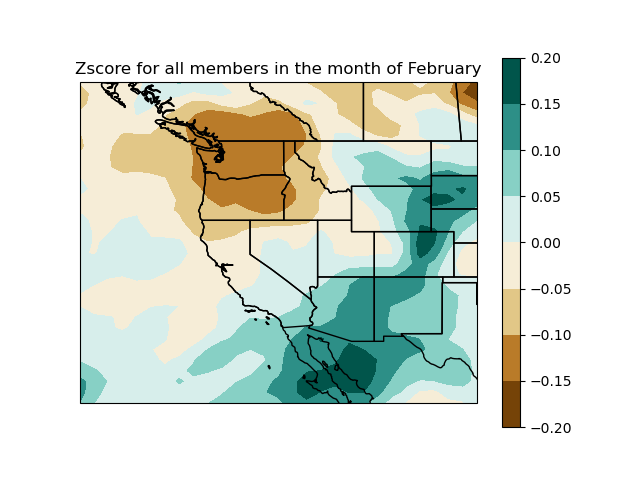
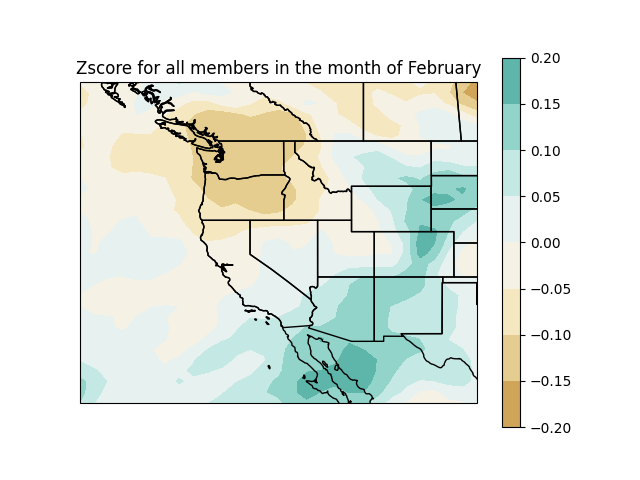
adjusted colorbar lims

diff --git a/Precipitation Scripts/monthly_zscore_plots.py b/Precipitation Scripts/monthly_zscore_plots.py
@@ -8,25 +8,22 @@ Good codes to look at:
 '''
 
 import xarray as xr
-import numpy as np
 import zscores_average
 import precip_zscores
 import glob
-import matplotlib.pyplot as plt
-import cartopy.crs as ccrs
-import cartopy.feature as cfeature
+import precipAvg_interval as pcp
 
 #Some of this code is a copy-paste from previous Python files (see above - this one is for zscores_average). Since we want all members, that part will be kept.
 
 # Retrieve the precip files, sorted so that each member is in order.
-filenames = sorted(glob.glob('Data/PRECTmem*.nc'))
+filenames = sorted(glob.glob('/Users/dfencekey/Desktop/Coding/Capstone/Capstone-PDO-Precip-Data-Analysis/Data/PRECTmem*.nc'))
 
 # Calculate the z-scores for each member, then concatenate them with a new "members" dimension.
 zscores = [precip_zscores.member_zscore(f) for f in filenames]
 zscores = xr.concat(zscores, dim = 'members')
 
 # Read in the booleans that define which months are phase changes.
-bools = xr.open_dataset('Data/phaseChanges.nc')
+bools = xr.open_dataset('/Users/dfencekey/Desktop/Coding/Capstone/Capstone-PDO-Precip-Data-Analysis/Data/phaseChanges.nc')
 # Rename the month_bool dimension to "time" so that it can be multiplied directly into zscores inside the function.
 bools = bools.rename({"month_bool": "time"})
 
@@ -63,12 +60,7 @@ for month in grouped['month']:
     month_name = months.get(month_dict_value)
     
     #Plot the selected month
-    X, Y = np.meshgrid(selected_by_month.lon, selected_by_month.lat)
-    fig, ax = plt.subplots(nrows = 1, ncols = 1, subplot_kw = {'projection': ccrs.PlateCarree()})
-    ax.coastlines()
-    my_ax = ax.contourf(X, Y, selected_by_month, transform = ccrs.PlateCarree(), cmap = "BrBG")
-    ax.add_feature(cfeature.STATES, zorder=1, linewidth=1, edgecolor='k')
-    fig.colorbar(my_ax, ax = ax)
-    ax.set_title("Zscore for all members in the month of " + str(month_name))
-    plt.savefig("Plots/"+month_name+'_zscore.png')
+    title = "Zscore for all members in the month of " + str(month_name)
+    pcp.prettyColors(selected_by_month, title, cmap = 'BrBG', save = "/Users/dfencekey/Desktop/Coding/Capstone/Capstone-PDO-Precip-Data-Analysis/Plots/"+month_name+'_zscore.png', vmin = -0.36, vmax = 0.36)
+
     

diff --git a/Precipitation Scripts/difference_plots.py b/Precipitation Scripts/difference_plots.py
@@ -36,14 +36,17 @@ print(difference)
 annual = pcp.interval(difference, months = np.arange(0, 12))
 
 # Plot the average annual difference.
-X, Y = np.meshgrid(annual.lon, annual.lat)
-fig, ax = plt.subplots(nrows = 1, ncols = 1, subplot_kw = {'projection': ccrs.PlateCarree()})
-ax.coastlines()
 
-my_ax = ax.contourf(X, Y, annual, transform = ccrs.PlateCarree(), cmap = 'BrBG', vmin = -75, 
-vmax = 75)
-ax.add_feature(cfeature.STATES, zorder=1, linewidth=1, edgecolor='k')
-ax.set_title('Average Annual PC Precipitation Anomaly (mm)')
-fig.colorbar(my_ax, ax = ax)
+pcp.prettyColors(annual, title = 'Average Annual PC Precipitation Anomaly (mm)', cmap = 'BrBG', save = '/Users/dfencekey/Desktop/Coding/Capstone/Capstone-PDO-Precip-Data-Analysis/Plots/Annual_DifferencePrecip.png', vmin = -75, vmax = 75)
+
+# X, Y = np.meshgrid(annual.lon, annual.lat)
+# fig, ax = plt.subplots(nrows = 1, ncols = 1, subplot_kw = {'projection': ccrs.PlateCarree()})
+# ax.coastlines()
+
+# my_ax = ax.contourf(X, Y, annual, transform = ccrs.PlateCarree(), cmap = 'BrBG', vmin = -75, 
+# vmax = 75)
+# ax.add_feature(cfeature.STATES, zorder=1, linewidth=1, edgecolor='k')
+# ax.set_title('Average Annual PC Precipitation Anomaly (mm)')
+# fig.colorbar(my_ax, ax = ax)
   
-plt.savefig('/Users/dfencekey/Desktop/Coding/Capstone/Capstone-PDO-Precip-Data-Analysis/Plots/Annual_DifferencePrecip.png')
+# plt.savefig('/Users/dfencekey/Desktop/Coding/Capstone/Capstone-PDO-Precip-Data-Analysis/Plots/Annual_DifferencePrecip.png')

diff --git a/Precipitation Scripts/precipAvg_interval.py b/Precipitation Scripts/precipAvg_interval.py
@@ -34,12 +34,12 @@ def interval(data, months):
     interval = interval.sum(dim = 'month')
     return interval
 
-def prettyColors(data, title, cmap, save):
+def prettyColors(data, title, cmap, save, **kwargs):
     X, Y = np.meshgrid(data.lon, data.lat)
     fig, ax = plt.subplots(nrows = 1, ncols = 1, subplot_kw = {'projection': ccrs.PlateCarree()})
     ax.coastlines()
 
-    my_ax = ax.contourf(X, Y, data, transform = ccrs.PlateCarree(), cmap = cmap)
+    my_ax = ax.contourf(X, Y, data, transform = ccrs.PlateCarree(), cmap = cmap, vmin = kwargs.get('vmin'), vmax = kwargs.get('vmax'))
     ax.add_feature(cfeature.STATES, zorder=1, linewidth=1, edgecolor='k')
     ax.set_title(title)
     fig.colorbar(my_ax, ax = ax)

diff --git a/Precipitation Scripts/seasonal_zscore_plots.py b/Precipitation Scripts/seasonal_zscore_plots.py
@@ -41,4 +41,4 @@ for i in seasons:
 #Plot the selected month with prettyColors function.
 szn_names = ['Winter', 'Spring', 'Summer', 'Fall']
 for i in range(0, 4):
-    pcp.prettyColors(seasonal_avgs[i], title = 'Average ' + szn_names[i] + ' Z-Scores', cmap = 'BrBG', save = ('/Users/dfencekey/Desktop/Coding/Capstone/Capstone-PDO-Precip-Data-Analysis/Plots/' + szn_names[i] + 'AvgZscores.png'))
+    pcp.prettyColors(seasonal_avgs[i], title = 'Average ' + szn_names[i] + ' Z-Scores', cmap = 'BrBG', save = ('/Users/dfencekey/Desktop/Coding/Capstone/Capstone-PDO-Precip-Data-Analysis/Plots/' + szn_names[i] + 'AvgZscores.png'), vmin = -0.6, vmax = 0.6)
